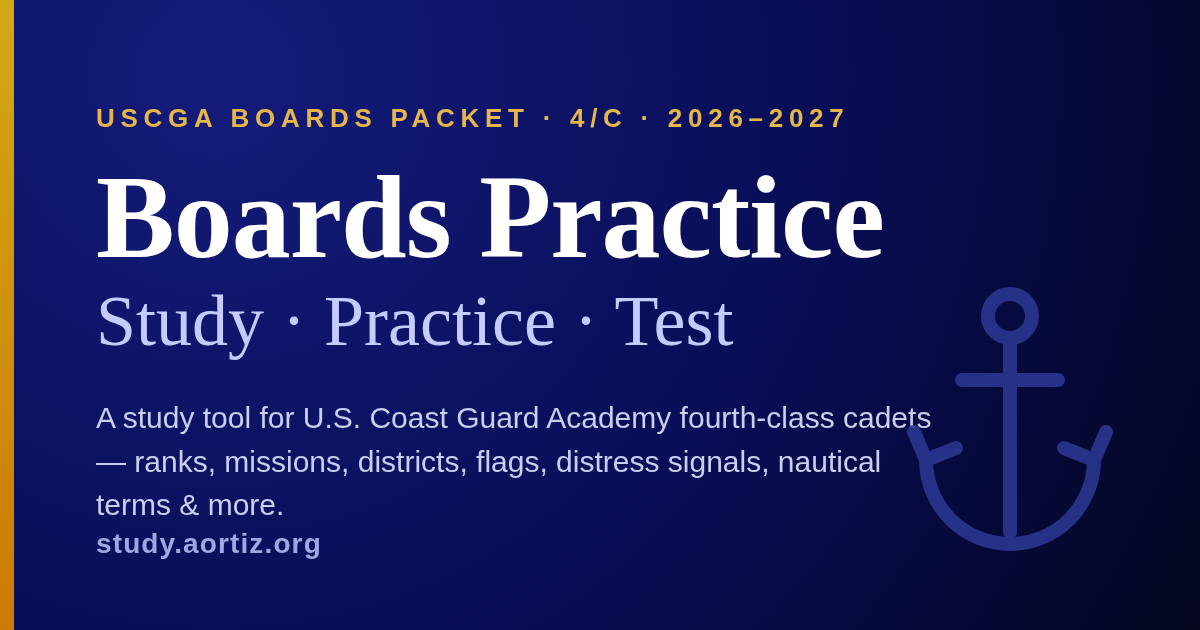
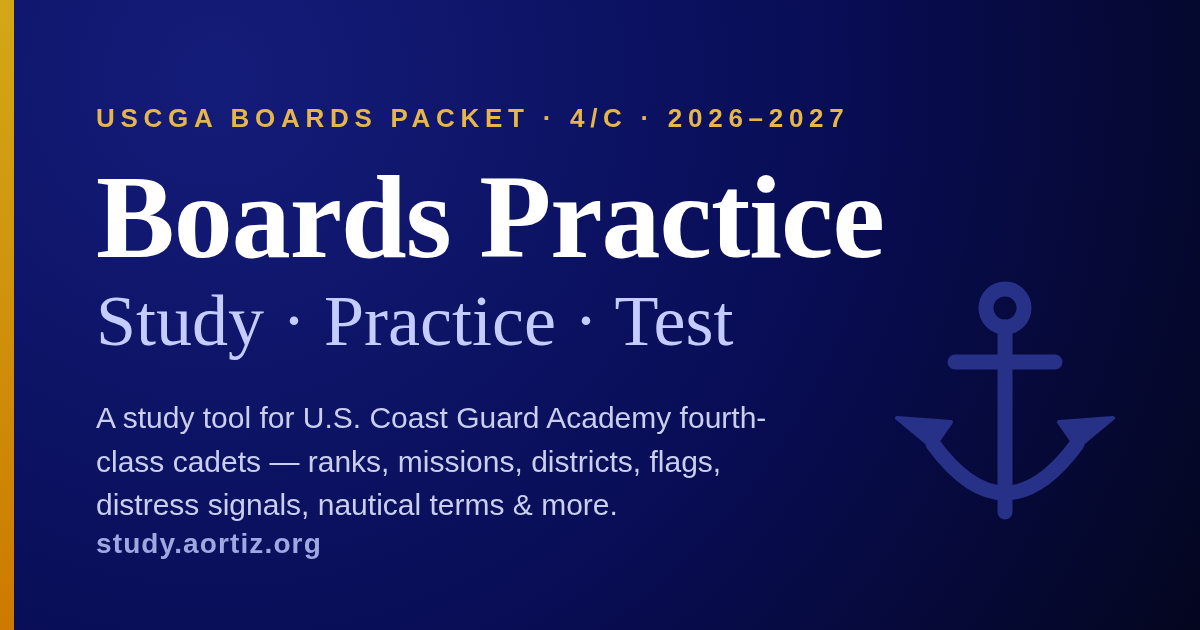
Redraw preview anchor, remove Focus mode, soften the light theme
- Social preview (og-image.png): cleaner classic anchor (ring, stock, shank,
  barbed flukes); narrowed the text so it clears the anchor.
- Remove Focus mode entirely — button, toggle handler, saved preference, and
  the .focus-mode CSS. It added little.
- Soften light mode: drop the pure-white background hotspot for a soft
  blue-gray and take the card surfaces a hair off pure white to cut glare.
  Dark mode is unchanged (it overrides all these backgrounds).

Changed region(s): [[0.0617, 0.4524, 0.925, 0.8746], [0.0617, 0.7841, 0.5242, 0.8444]]

diff --git a/styles.css b/styles.css
@@ -11,14 +11,14 @@
   --shadow: 0 14px 35px rgba(8, 13, 85, .09);
 }
 * { box-sizing: border-box; }
-body { margin: 0; color: var(--ink); background: radial-gradient(circle at top left, #fff 0, var(--paper) 45%, #e7eaf1 100%); font-family: Georgia, 'Times New Roman', serif; }
+body { margin: 0; color: var(--ink); background: radial-gradient(circle at top left, #edf0f6 0, #e5eaf2 48%, #dce2ec 100%); font-family: Georgia, 'Times New Roman', serif; }
 button, select, input { font: inherit; } button { cursor: pointer; }
 .app-shell { width: min(980px, calc(100% - 32px)); margin: 0 auto; padding: 42px 0 64px; }
 .topbar { display: flex; align-items: flex-start; justify-content: space-between; gap: 24px; margin-bottom: 32px; }.header-actions { display: flex; gap: 8px; flex: none; }.topbar .intro { max-width: 580px; margin: 12px 0 0; color: var(--muted); font: 14px/1.5 Arial, sans-serif; }
 .eyebrow { margin: 0 0 8px; color: var(--teal); font: 700 11px/1.2 Arial, sans-serif; letter-spacing: .12em; } h1, h2, h3, p { margin-top: 0; }
 h1 { margin-bottom: 0; font-size: clamp(36px, 6vw, 62px); line-height: .98; font-weight: 500; } h2 { margin-bottom: 0; font-size: 30px; font-weight: 500; }
 .theme-button, .menu-button, .secondary-button { padding: 10px 13px; color: var(--teal-dark); background: transparent; border: 1px solid var(--line); border-radius: 6px; font: 700 11px Arial, sans-serif; }.theme-button:hover, .menu-button:hover, .secondary-button:hover { background: rgba(8, 13, 85, .08); }
-.setup-panel, .quiz-panel, .results-panel { background: rgba(255, 255, 255, .84); border: 1px solid var(--line); box-shadow: var(--shadow); border-radius: 10px; }.setup-panel { padding: 30px; border-top: 4px solid var(--teal); }
+.setup-panel, .quiz-panel, .results-panel { background: #f6f8fc; border: 1px solid var(--line); box-shadow: var(--shadow); border-radius: 10px; }.setup-panel { padding: 30px; border-top: 4px solid var(--teal); }
 .section-heading { display: flex; justify-content: space-between; gap: 24px; align-items: end; }.muted { color: var(--muted); font: 14px/1.5 Arial, sans-serif; max-width: 320px; margin-bottom: 2px; }.mode-hint, .loading-message { margin: 14px 0 0; color: var(--muted); font: 12px/1.45 Arial, sans-serif; }.loading-message.error-message { color: #9a3328; }
 .how-to { margin: 18px 0 0; background: rgba(8, 13, 85, .04); border: 1px solid var(--line); border-radius: 8px; }
 .how-to > summary { cursor: pointer; padding: 11px 15px; color: var(--ink); font: 700 13px Arial, sans-serif; }
@@ -36,11 +36,10 @@ label { display: grid; gap: 8px; color: var(--muted); font: 700 11px Arial, sans
 .hidden { display: none !important; }.quiz-panel, .results-panel { padding: 26px 30px 30px; }.quiz-meta { display: flex; justify-content: space-between; gap: 16px; color: var(--muted); font: 12px Arial, sans-serif; }.quiz-meta .menu-button { margin-left: auto; padding: 5px 9px; }.progress-track { height: 4px; margin: 14px 0 36px; background: var(--line); }.progress-track div { height: 100%; width: 0; background: var(--coral); transition: width .25s ease; }
 .question-kicker { color: var(--teal); font: 700 11px Arial, sans-serif; letter-spacing: .1em; text-transform: uppercase; }.question-title { max-width: 760px; margin: 10px 0 24px; font-size: clamp(25px, 4vw, 38px); line-height: 1.1; font-weight: 500; }.study-answer { max-width: 760px; margin: 20px 0; padding: 22px; background: #eef0f7; border-left: 4px solid var(--teal); border-radius: 7px; }.study-answer span { color: var(--muted); font: 700 10px Arial, sans-serif; letter-spacing: .08em; text-transform: uppercase; }.study-answer p { margin: 10px 0 0; font-size: 20px; line-height: 1.55; }.study-prompt { color: var(--muted); font: 13px Arial, sans-serif; }
 .study-image, .question-image { display: block; width: min(220px, 100%); max-height: 180px; object-fit: contain; margin: 16px 0; padding: 10px; background: #fff; border: 1px solid var(--line); border-radius: 8px; }.asset-details p { font-size: 16px; }
-.answer-grid { display: grid; grid-template-columns: 1fr 1fr; gap: 10px; }.answer { min-height: 62px; padding: 15px 17px; text-align: left; color: var(--ink); background: rgba(255, 255, 255, .82); border: 1px solid var(--line); border-left: 4px solid #9da9c6; border-radius: 6px; }.answer:hover { border-color: var(--teal); background: #f2f3fa; }.answer.correct { border-color: #3d947a; background: #e7f4ed; }.answer.incorrect { border-color: var(--coral); background: #fff0ec; }.fill-row { display: flex; gap: 10px; max-width: 760px; }.fill-input { flex: 1; min-width: 0; padding: 15px 17px; color: var(--ink); background: #fff; border: 1px solid var(--line); border-radius: 6px; font: 16px Georgia, serif; }.fill-input:focus, select:focus { outline: 3px solid rgba(8, 13, 85, .15); border-color: var(--teal); }
+.answer-grid { display: grid; grid-template-columns: 1fr 1fr; gap: 10px; }.answer { min-height: 62px; padding: 15px 17px; text-align: left; color: var(--ink); background: #f4f7fc; border: 1px solid var(--line); border-left: 4px solid #9da9c6; border-radius: 6px; }.answer:hover { border-color: var(--teal); background: #f2f3fa; }.answer.correct { border-color: #3d947a; background: #e7f4ed; }.answer.incorrect { border-color: var(--coral); background: #fff0ec; }.fill-row { display: flex; gap: 10px; max-width: 760px; }.fill-input { flex: 1; min-width: 0; padding: 15px 17px; color: var(--ink); background: #fff; border: 1px solid var(--line); border-radius: 6px; font: 16px Georgia, serif; }.fill-input:focus, select:focus { outline: 3px solid rgba(8, 13, 85, .15); border-color: var(--teal); }
 .study-navigation { display: flex; justify-content: space-between; align-items: center; gap: 12px; margin-top: 18px; }.study-navigation .next-button { margin: 0 0 0 auto; }
 .feedback { margin-top: 22px; padding: 15px 17px; font: 14px/1.45 Arial, sans-serif; border-left: 4px solid var(--gold); background: #fffaf0; border-radius: 5px; }.feedback strong { display: block; margin-bottom: 3px; }.next-button { display: block; margin: 18px 0 0 auto; }.results-panel { text-align: center; border-top: 4px solid var(--coral); }.results-score { margin: 14px 0 5px; color: var(--teal); font-size: 64px; }.results-panel p { color: var(--muted); font: 14px Arial, sans-serif; }.results-panel .primary-button { margin-top: 16px; }.results-panel .secondary-button { display: block; margin: 12px auto 0; }
-.command-progress { margin-top: 30px; padding: 26px 30px; background: rgba(255, 255, 255, .56); border: 1px solid var(--line); border-radius: 10px; }.mastery-summary { display: grid; grid-template-columns: repeat(3, minmax(0, 150px)); gap: 10px; margin-top: 22px; }.mastery-stat { padding: 13px 15px; background: rgba(231, 234, 241, .8); border-radius: 7px; }.mastery-stat strong { display: block; color: var(--teal); font-size: 25px; }.mastery-stat span { color: var(--muted); font: 10px Arial, sans-serif; letter-spacing: .08em; text-transform: uppercase; }.mastery-toolbar { display: flex; align-items: center; gap: 10px; margin-top: 22px; color: var(--muted); font: 11px Arial, sans-serif; }.mastery-toolbar label { display: block; font: 700 11px Arial, sans-serif; }.mastery-toolbar select { width: auto; min-width: 170px; padding: 9px 11px; }.mastery-list { display: grid; grid-template-columns: 1fr 1fr; gap: 9px 18px; margin-top: 20px; }.mastery-item { display: grid; grid-template-columns: minmax(0, 1fr) 100px; gap: 12px; align-items: center; padding: 11px 0; border-bottom: 1px solid var(--line); }.mastery-item strong { display: block; overflow: hidden; text-overflow: ellipsis; white-space: nowrap; font-size: 14px; }.mastery-item small { color: var(--muted); font: 10px Arial, sans-serif; }.mastery-bar { height: 6px; overflow: hidden; background: var(--line); border-radius: 10px; }.mastery-bar span { display: block; height: 100%; background: var(--coral); border-radius: inherit; }.privacy-note { margin: 18px 0 0; color: var(--muted); text-align: center; font: 11px Arial, sans-serif; }.comparison { display: grid; gap: 5px; margin-top: 10px; }.comparison span { color: var(--muted); font: 10px Arial, sans-serif; letter-spacing: .08em; text-transform: uppercase; }.comparison p { margin: 0 0 8px; line-height: 1.5; }.comparison mark { padding: 2px 3px; color: #8d4035; background: #f6c9bf; }.comparison mark.extra { text-decoration: line-through; }.comparison .match { color: #31765f; }.keyboard-hint { margin-top: 18px; color: var(--muted); font: 10px Arial, sans-serif; text-align: right; }
-.focus-mode .stats-row, .focus-mode .command-progress, .focus-mode .topbar > div:first-child + .header-actions .theme-button:first-child { display: none; }.focus-mode .app-shell { width: min(780px, calc(100% - 32px)); }.focus-mode .quiz-panel { margin-top: 20px; }
+.command-progress { margin-top: 30px; padding: 26px 30px; background: #eff2f9; border: 1px solid var(--line); border-radius: 10px; }.mastery-summary { display: grid; grid-template-columns: repeat(3, minmax(0, 150px)); gap: 10px; margin-top: 22px; }.mastery-stat { padding: 13px 15px; background: rgba(231, 234, 241, .8); border-radius: 7px; }.mastery-stat strong { display: block; color: var(--teal); font-size: 25px; }.mastery-stat span { color: var(--muted); font: 10px Arial, sans-serif; letter-spacing: .08em; text-transform: uppercase; }.mastery-toolbar { display: flex; align-items: center; gap: 10px; margin-top: 22px; color: var(--muted); font: 11px Arial, sans-serif; }.mastery-toolbar label { display: block; font: 700 11px Arial, sans-serif; }.mastery-toolbar select { width: auto; min-width: 170px; padding: 9px 11px; }.mastery-list { display: grid; grid-template-columns: 1fr 1fr; gap: 9px 18px; margin-top: 20px; }.mastery-item { display: grid; grid-template-columns: minmax(0, 1fr) 100px; gap: 12px; align-items: center; padding: 11px 0; border-bottom: 1px solid var(--line); }.mastery-item strong { display: block; overflow: hidden; text-overflow: ellipsis; white-space: nowrap; font-size: 14px; }.mastery-item small { color: var(--muted); font: 10px Arial, sans-serif; }.mastery-bar { height: 6px; overflow: hidden; background: var(--line); border-radius: 10px; }.mastery-bar span { display: block; height: 100%; background: var(--coral); border-radius: inherit; }.privacy-note { margin: 18px 0 0; color: var(--muted); text-align: center; font: 11px Arial, sans-serif; }.comparison { display: grid; gap: 5px; margin-top: 10px; }.comparison span { color: var(--muted); font: 10px Arial, sans-serif; letter-spacing: .08em; text-transform: uppercase; }.comparison p { margin: 0 0 8px; line-height: 1.5; }.comparison mark { padding: 2px 3px; color: #8d4035; background: #f6c9bf; }.comparison mark.extra { text-decoration: line-through; }.comparison .match { color: #31765f; }.keyboard-hint { margin-top: 18px; color: var(--muted); font: 10px Arial, sans-serif; text-align: right; }
 body.dark-mode { --ink: #e9ebf5; --muted: #aeb4c8; --line: #343b68; --paper: #090d2d; --panel: #111743; --teal: #7380e6; --teal-dark: #9ca6ff; --coral: #cc9901; --gold: #d3a817; --shadow: 0 14px 35px rgba(0, 0, 0, .2); background: radial-gradient(circle at top left, #181f5d 0, var(--paper) 55%, #03051c 100%); }.dark-mode .setup-panel, .dark-mode .quiz-panel, .dark-mode .results-panel { background: rgba(17, 23, 67, .92); }.dark-mode .stat, .dark-mode .mastery-stat, .dark-mode .study-answer { background: rgba(22, 29, 79, .9); }.dark-mode select, .dark-mode .answer, .dark-mode .fill-input { color: var(--ink); background: #171d50; }.dark-mode .answer:hover { background: #202866; }.dark-mode .feedback { background: #3a3526; }.dark-mode .theme-button, .dark-mode .menu-button, .dark-mode .secondary-button { color: var(--teal); }.dark-mode .command-progress { background: rgba(17, 23, 67, .82); }
 @media (max-width: 680px) { .app-shell { width: min(100% - 22px, 980px); padding-top: 26px; }.topbar { margin-bottom: 24px; }.setup-panel, .quiz-panel, .results-panel, .command-progress { padding: 22px 18px; }.header-actions { display: grid; gap: 5px; }.section-heading, .controls { display: grid; grid-template-columns: 1fr; align-items: stretch; }.controls { margin-top: 22px; }.practice-sets { grid-column: auto; grid-template-columns: 1fr; }.controls .primary-button { grid-column: auto; }.primary-button { width: 100%; }.answer-grid { grid-template-columns: 1fr; }.fill-row { display: grid; grid-template-columns: 1fr; }.submit-button { width: 100%; }.stats-row { margin-bottom: 20px; }.stat { padding: 13px; }.stat span { font-size: 23px; }.mastery-summary { grid-template-columns: repeat(3, 1fr); }.mastery-list { grid-template-columns: 1fr; }.keyboard-hint { text-align: left; } }
 

diff --git a/app.js b/app.js
@@ -431,8 +431,6 @@ $('backButton').addEventListener('click', () => { if (state.mode === 'study' && 
 $('masteryFilter').addEventListener('change', renderMastery);
 $('resetButton').addEventListener('click', () => { if (window.confirm('Reset all mastery and statistics? This cannot be undone.')) { localStorage.removeItem('boards-command-progress'); localStorage.removeItem('boards-practice-stats'); window.location.reload(); } });
 $('themeButton').addEventListener('click', () => { document.body.classList.toggle('dark-mode'); localStorage.setItem('boards-practice-theme', document.body.classList.contains('dark-mode') ? 'dark' : 'light'); $('themeButton').textContent = document.body.classList.contains('dark-mode') ? 'Light mode' : 'Dark mode'; });
-$('focusButton').addEventListener('click', () => { document.body.classList.toggle('focus-mode'); localStorage.setItem('boards-practice-focus', document.body.classList.contains('focus-mode') ? 'focus' : 'full'); $('focusButton').textContent = document.body.classList.contains('focus-mode') ? 'Exit focus' : 'Focus mode'; });
 document.addEventListener('keydown', (event) => { if (event.target.matches('input, textarea, select')) return; if (event.key === 'Escape' && !$('quizPanel').classList.contains('hidden')) showMenu(); if (event.key.toLowerCase() === 'n' && state.answered && !$('quizPanel').classList.contains('hidden')) $('nextButton').click(); if (/^[1-4]$/.test(event.key) && !state.answered && !$('quizPanel').classList.contains('hidden')) document.querySelectorAll('.answer')[Number(event.key) - 1]?.click(); if (event.key === 'Enter' && !$('quizPanel').classList.contains('hidden') && state.answered) $('nextButton').click(); });
 if (localStorage.getItem('boards-practice-theme') === 'dark') { document.body.classList.add('dark-mode'); $('themeButton').textContent = 'Light mode'; }
-if (localStorage.getItem('boards-practice-focus') === 'focus') { document.body.classList.add('focus-mode'); $('focusButton').textContent = 'Exit focus'; }
 window.loadStudyData().then(initialize).catch((error) => { $('loadingMessage').textContent = `Packet data could not load. ${error.message}`; $('loadingMessage').classList.add('error-message'); });

diff --git a/index.html b/index.html
@@ -59,7 +59,6 @@
       </div>
       <div class="header-actions">
         <button class="theme-button" id="themeButton" type="button" aria-label="Toggle dark mode">Dark mode</button>
-        <button class="theme-button" id="focusButton" type="button" aria-label="Toggle focus mode">Focus mode</button>
         <button class="theme-button" id="resetButton" type="button">Reset progress</button>
       </div>
     </header>
